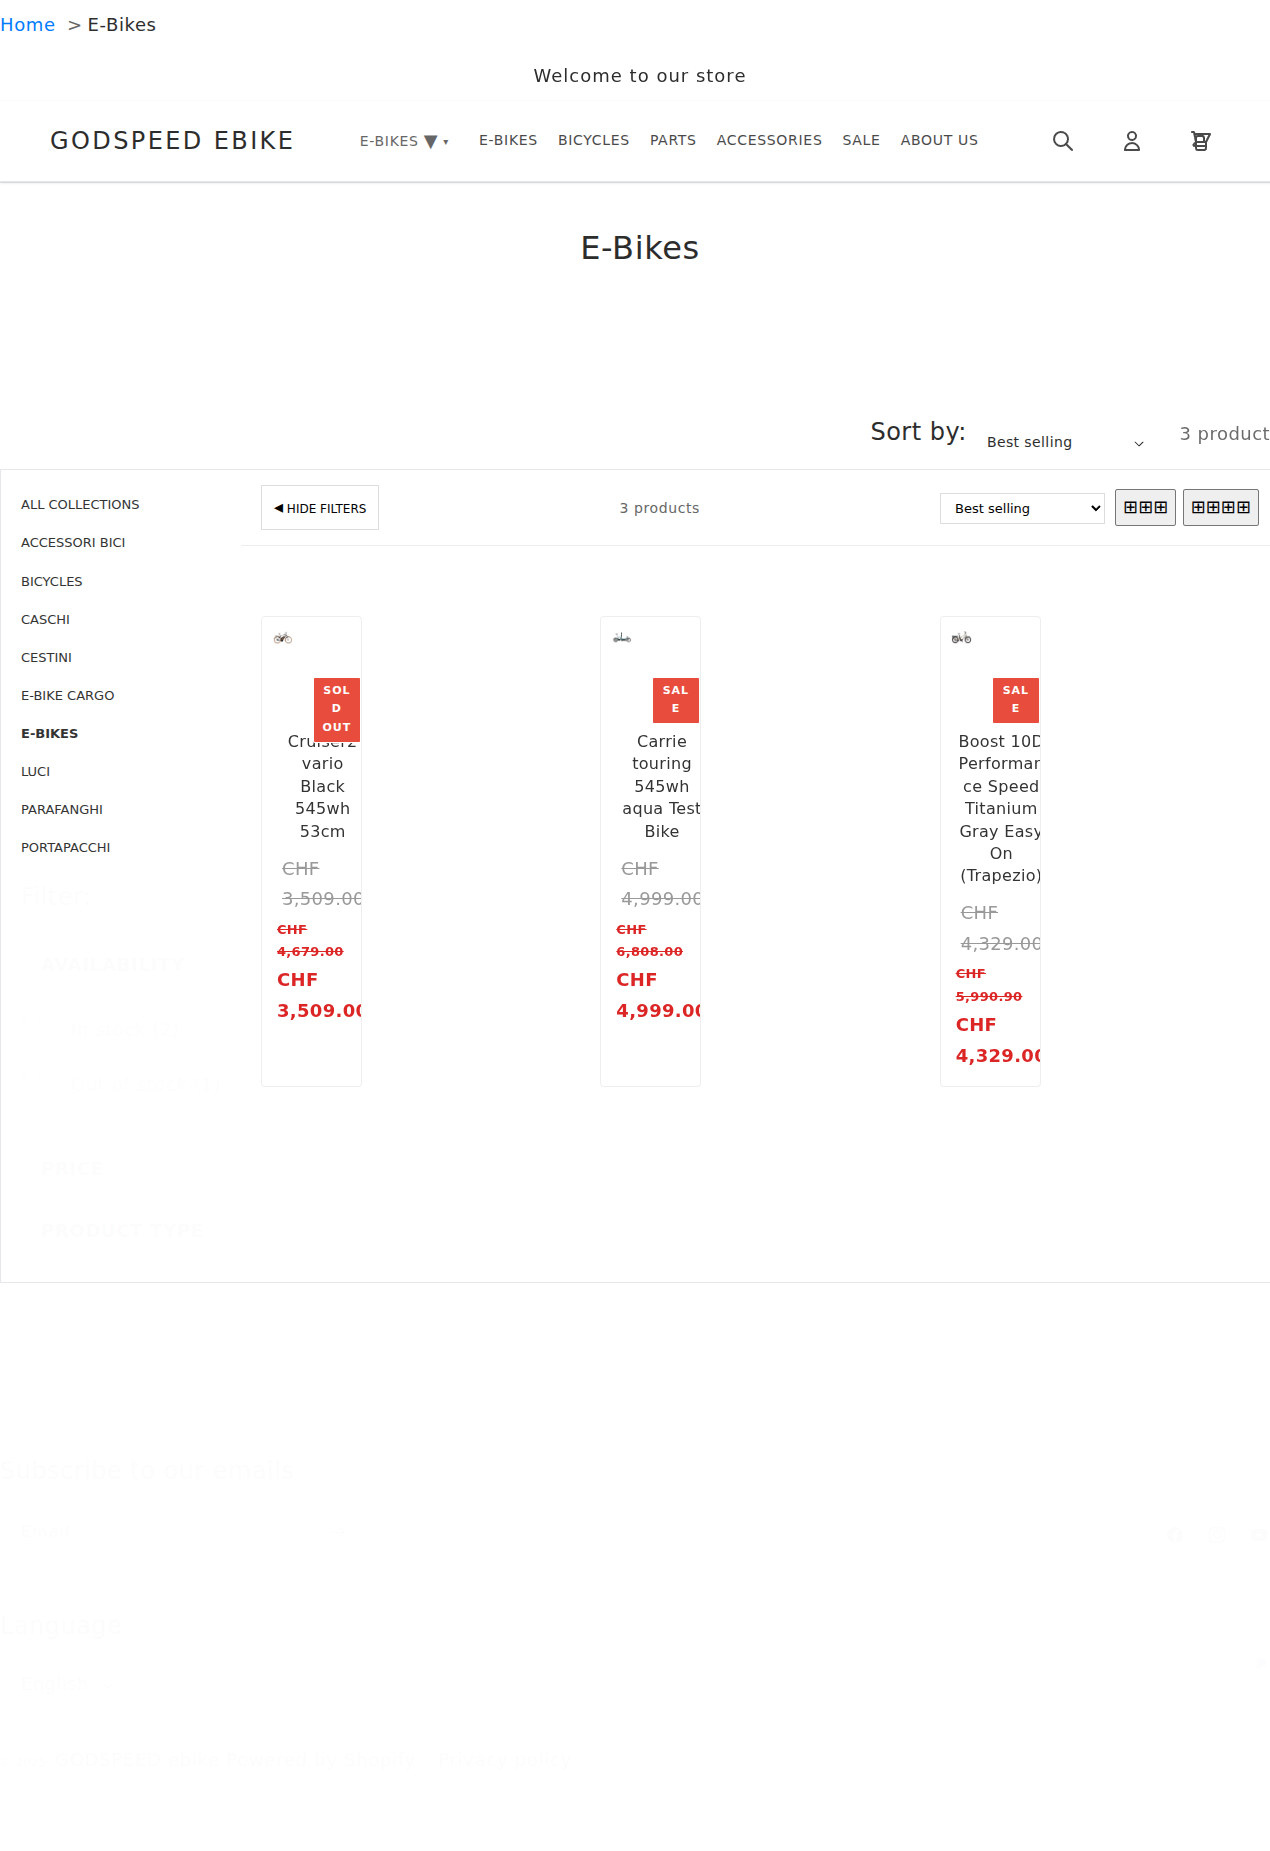
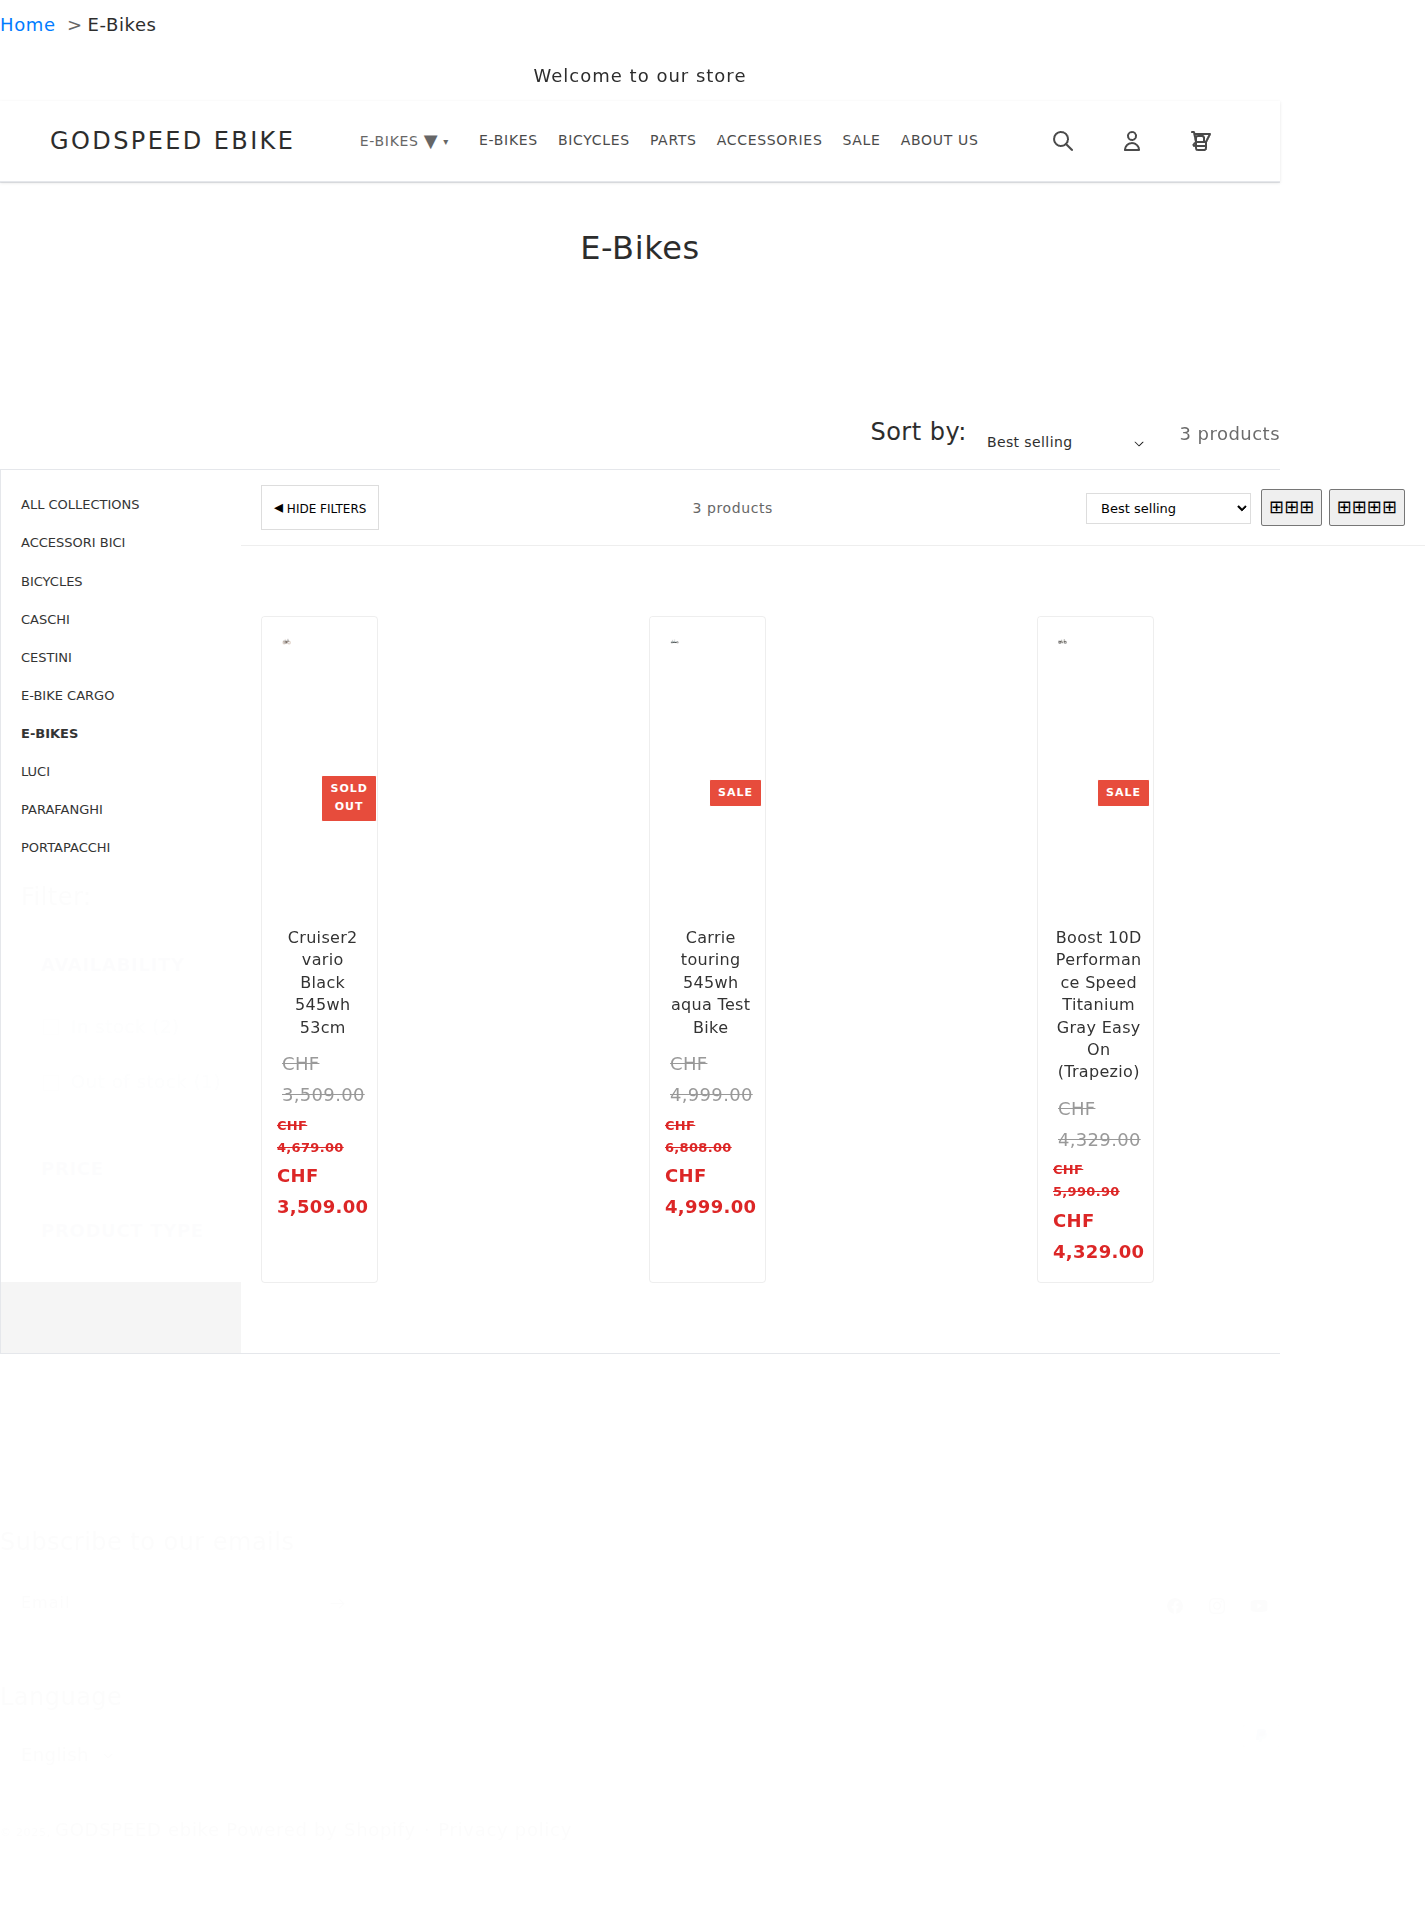
Make sidebar narrower to match target proportions

diff --git a/assets/exact-pixel-copy.css b/assets/exact-pixel-copy.css
@@ -8,7 +8,7 @@
 /* Main container - exact proportions from target */
 .facets-vertical {
   display: grid !important;
-  grid-template-columns: 240px 1fr !important;
+  grid-template-columns: 200px 1fr !important;
   gap: 0 !important;
   max-width: 1200px !important;
   margin: 0 auto !important;
